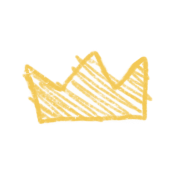
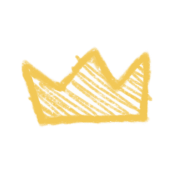
updated img assets

Changed region(s): [[0.1111, 0.25, 0.8611, 0.7222]]

diff --git a/src/components/Errors/Errors.jsx b/src/components/Errors/Errors.jsx
@@ -16,7 +16,7 @@ const Errors = () => {
     const errorFrames = [errorsLeft5, errorsLeft4, errorsLeft3, errorsLeft2, errorsLeft1, null]
 
     return <>
-    <img src={errorFrames[errors]} style={{height: "120px"}}/>
+    <img src={errorFrames[errors]} style={{height: "200px"}}/>
     <p>ERRORI: {errors}/{MAXERRORS}</p>
     </>
 }

diff --git a/src/components/SketchDialog/SketchDialog.jsx b/src/components/SketchDialog/SketchDialog.jsx
@@ -5,7 +5,7 @@ import styles from "./SketchDialog.module.css"
 
 import { useEffect } from "react"
 
-import explosion from "../../../public/crown.png"
+import explosion from "../../../public/explosion.png"
 
 const SketchDialog =({isOpen, onClose, newGame, dynamiteExploded, message})=> {
 

diff --git a/src/components/SketchDialog/SketchDialog.module.css b/src/components/SketchDialog/SketchDialog.module.css
@@ -32,8 +32,8 @@
   position: fixed;
   top: 50%;
   left: 50%;
-width: 60vw;
-height: auto;
+  height: 680px;
+  width: auto;
   transform: translate(-50%, -50%) scale(0.5);
   z-index: -1;
   opacity: 0;

diff --git a/src/components/KeyboardButton/KeyboardButton.module.css b/src/components/KeyboardButton/KeyboardButton.module.css
@@ -2,7 +2,7 @@
 
     background-color: transparent;
     height: 3rem;
-    width: 3rem;
+    width: 2rem;
     display: flex;
     justify-content: center;
     align-items: center;

diff --git a/src/components/PlayerScore/Playerscore.module.css b/src/components/PlayerScore/Playerscore.module.css
@@ -1,6 +1,7 @@
 .playerInfo {
     display: flex;
     flex-direction: row;
+    gap: 1.5rem;
     justify-content: space-between;
     align-items: center;
     padding: 0.2rem 1rem;
